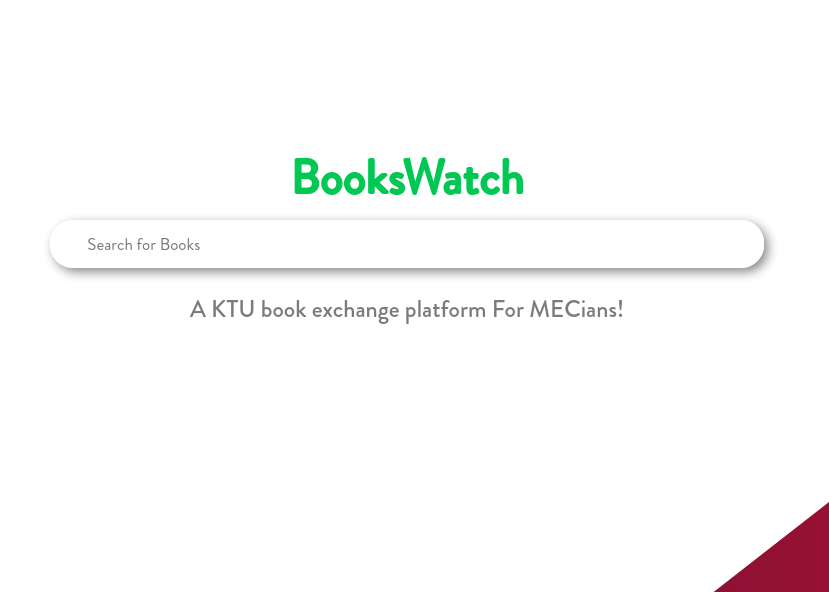
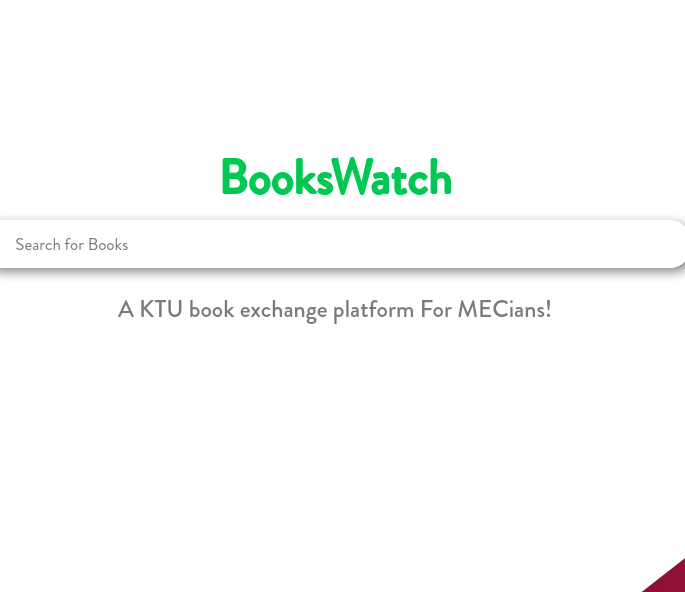
Improved mobile view of projects

diff --git a/index.css b/index.css
@@ -185,4 +185,7 @@ a {
     flex-direction: column;
     align-items: center;
   }
+  .projectsCard {
+    flex-direction: column;
+  }
 }
